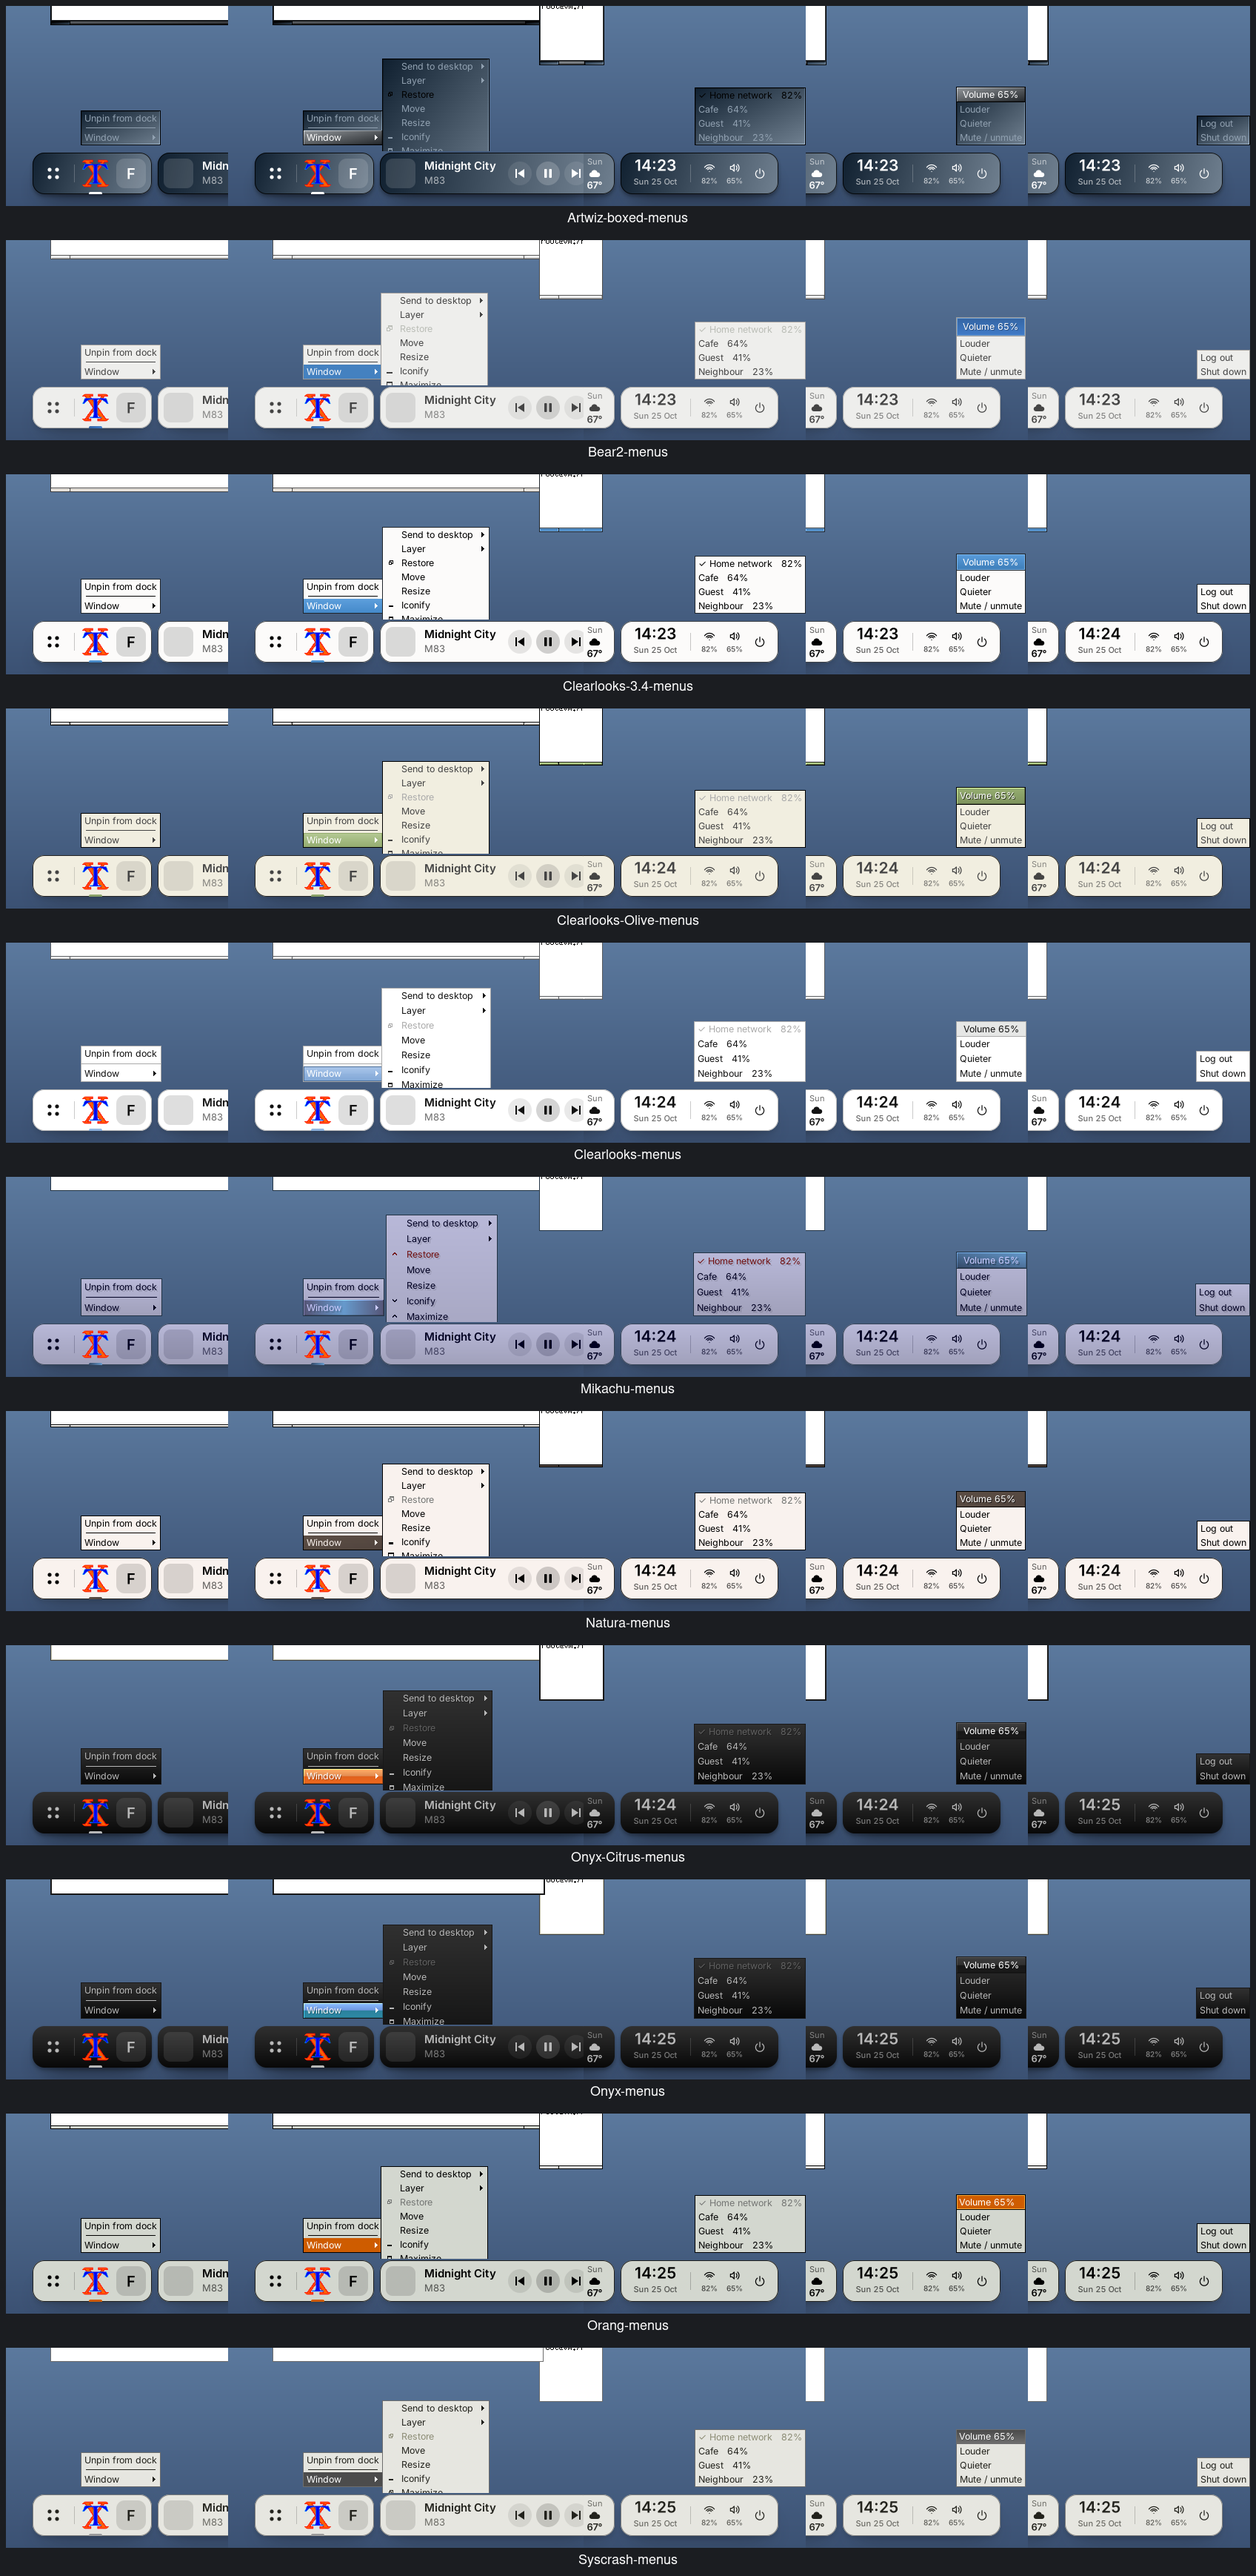
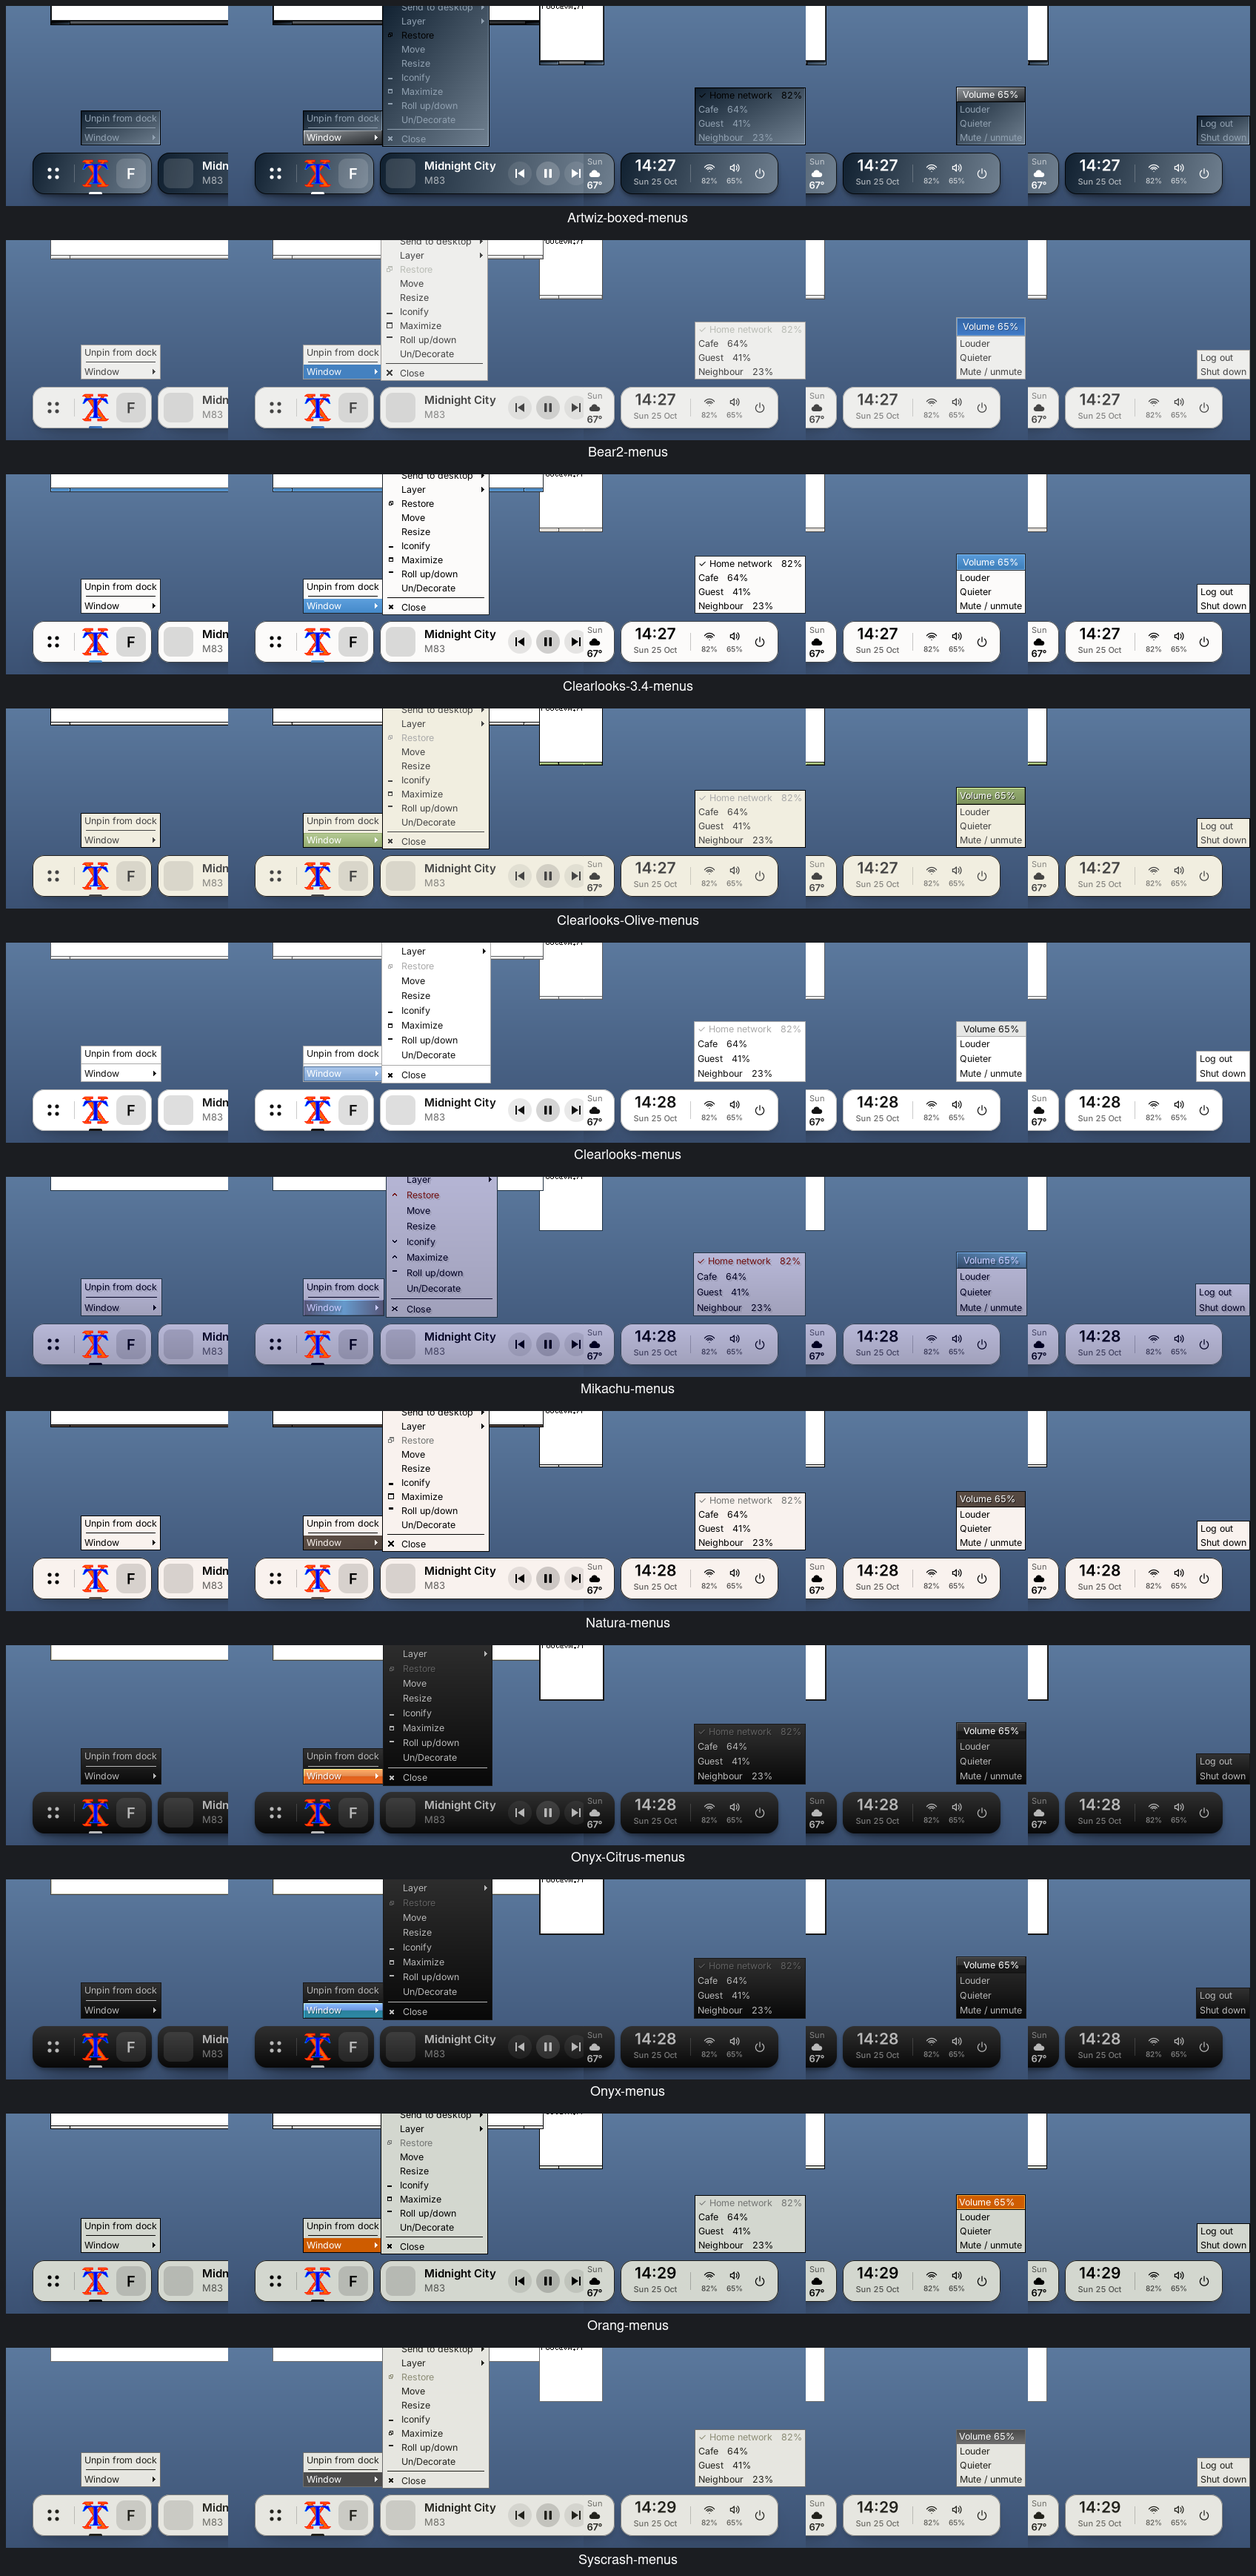
fix(shelf): keep submenus clear of the shelf and raise the mark contrast
A submenu that starts above the shelf is now kept above it instead of
sliding under the islands. The running mark must reach 3:1 on the island
(was 2:1) or it falls back to the text colour.

Claude-Session: https://claude.ai/code/session_01VtgmhciBiy88yVuPB3d7H3

diff --git a/openbox/menuframe.c b/openbox/menuframe.c
@@ -20,6 +20,7 @@
 #include "menuframe.h"
 #include "client.h"
 #include "menu.h"
+#include "shelf.h"
 #include "screen.h"
 #include "actions.h"
 #include "event.h"
@@ -341,7 +342,7 @@ void menu_frame_move_on_screen(ObMenuFrame *self, gint x, gint y,
 {
     const Rect *a = NULL;
     Rect search = self->area;
-    gint pos, half, monitor;
+    gint pos, half, monitor, bottom, limit;
 
     *dx = *dy = 0;
     RECT_SET_POINT(search, x, y);
@@ -352,6 +353,11 @@ void menu_frame_move_on_screen(ObMenuFrame *self, gint x, gint y,
         monitor = screen_find_monitor(&search);
 
     a = screen_physical_area_monitor(monitor);
+    bottom = a->y + a->height;
+    /* a submenu that starts above the shelf stays above it */
+    if (self->parent && (limit = shelf_menu_limit()) > 0 && y < limit &&
+        limit < bottom)
+        bottom = limit;
 
     half = g_list_length(self->entries) / 2;
     pos = g_list_index(self->entries, self->selected);
@@ -363,7 +369,7 @@ void menu_frame_move_on_screen(ObMenuFrame *self, gint x, gint y,
         *dy = MAX(*dy, a->y - y);
     }
     *dx = MIN(*dx, (a->x + a->width) - (x + self->area.width));
-    *dy = MIN(*dy, (a->y + a->height) - (y + self->area.height));
+    *dy = MIN(*dy, bottom - (y + self->area.height));
     /* if in the top half then check this stuff last, will keep the top
        edge of the menu visible */
     if (pos <= half) {

diff --git a/openbox/shelf.c b/openbox/shelf.c
@@ -275,7 +275,7 @@ static const Material *theme_material(void)
     }
     m->divider = m->ink;
     m->divider_a = 0.22;
-    m->accent = contrast(accent, body) >= 2.0 ? accent : m->ink;
+    m->accent = contrast(accent, body) >= 3.0 ? accent : m->ink;
     if (m->accent.r != accent.r || m->accent.g != accent.g ||
         m->accent.b != accent.b)
         m->accent_fill.kind = G_SOLID;
@@ -2022,6 +2022,12 @@ static void shelf_menu_place(ObMenuFrame *frame, gint *x, gint *y,
     menu_frame_move_on_screen(frame, *x, *y, &dx, &dy);
     *x += dx;
     *y += dy;
+}
+
+gint shelf_menu_limit(void)
+{
+    if (!S.win || !S.shown) return -1;
+    return S.wy + S.island_y - 8;
 }
 
 void shelf_menu_startup(void)

diff --git a/openbox/shelf.h b/openbox/shelf.h
@@ -26,6 +26,10 @@
 /*! The space the shelf takes from the work area (bottom edge only) */
 extern StrutPartial shelf_strut;
 
+/*! The screen y a submenu should not go below so the shelf stays clear, or
+  -1 when the shelf is not shown */
+gint shelf_menu_limit(void);
+
 /*! The shelf is two floating islands at the bottom of the screen: a dock
   listing the running applications, and a clock with status glyphs. It is
   drawn by the window manager itself with cairo, and is off unless the

diff --git a/README.md b/README.md
@@ -38,7 +38,7 @@ With `<material>theme</material>` (the default) the shelf follows the Openbox th
 ![The shelf under each bundled Openbox theme](docs/screenshots/shelf-themes.png)
 
 *Regenerate it with [`tools/shelf-themes.sh`](tools/shelf-themes.sh), which also checks, for every theme, that the text reads on
-the islands (4.5:1) and on the hovered tile (3:1) and that the running mark shows (2:1). CI runs it
+the islands (4.5:1) and on the hovered tile (3:1) and that the running mark shows (3:1). CI runs it
 ([`shelf-themes.yml`](.github/workflows/shelf-themes.yml)). Every bundled theme with all the islands and the hover on the second tile, in a test environment (Xvfb, no compositor, sample data in the player and the weather).*
 
 Menus (a tile's and its window submenu, then the network's, the volume's and the power's) are Openbox's own,
